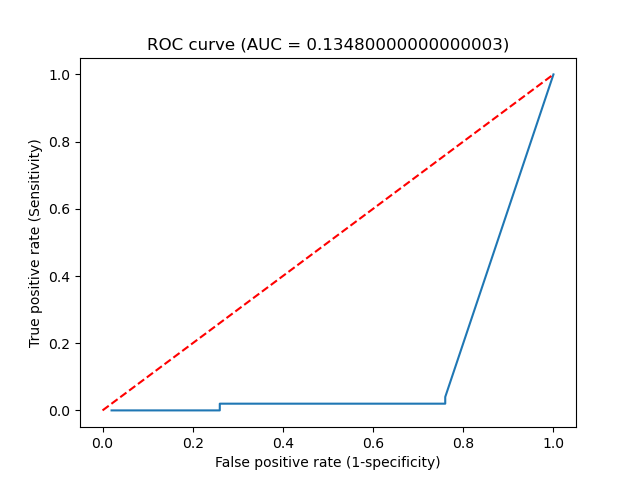
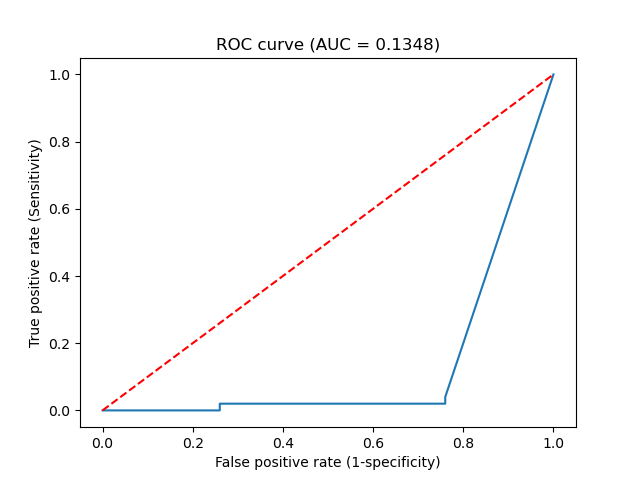
ensured starting at (0,0) and ending at (1,1)

Changed region(s): [[0.2188, 0.0625, 0.7812, 0.125]]

diff --git a/assignment3/ex2_1.py b/assignment3/ex2_1.py
@@ -73,24 +73,26 @@ def get_AUC_from_anomalies(data: list, savename = 'temp.png'):
             prev_score = score
     distinct_scores.append((prev_i, l))
 
-    sensitivities = []
-    specificities = []
+    sensitivities = [1] #ensure start at 0,0 and 1,1
+    specificities = [0] #ensure start at 0,0 and 1,1
     for i, j in distinct_scores:
         score = sorted_data[i][2]
         TP = len([w for (l, w, s) in sorted_data if s >= score and l])
         FP = len([w for (l, w, s) in sorted_data if s >= score and not l])
         TN = len([w for (l, w, s) in sorted_data if s < score and not l])
         FN = len([w for (l, w, s) in sorted_data if s < score and l])
-        TPR = TP / (TP + FN)
+        TPR = TP / (TP+FN)
         TNR = TN / (TN + FP)
 
         sensitivities.append(TPR)
         specificities.append(TNR)
 
-    # calculate AUC and make plots
+    #calculate AUC and make plots
     inverse_spec = np.ones_like(specificities) - specificities
+    sensitivities.append(0) #ensure start at 0,0 and 1,1
+    inverse_spec = np.append(inverse_spec, 0) #ensure start at 0,0 and 1,1
     auc = metrics.auc(inverse_spec, sensitivities)
-
+    
     plt.figure()
     plt.plot(inverse_spec, sensitivities)
     plt.plot([0.0,1.0], [0.0,1.0], 'r--')

diff --git a/assignment3/ex1_1.py b/assignment3/ex1_1.py
@@ -34,8 +34,8 @@ def get_AUC_from_anomalies(data: list, savename = 'temp.png'):
             prev_score = score
     distinct_scores.append((prev_i, l))
 
-    sensitivities = []
-    specificities = []
+    sensitivities = [1] #ensure start at 0,0 and 1,1
+    specificities = [0] #ensure start at 0,0 and 1,1
     for i, j in distinct_scores:
         score = sorted_data[i][2]
         TP = len([w for (l, w, s) in sorted_data if s >= score and l])
@@ -50,6 +50,8 @@ def get_AUC_from_anomalies(data: list, savename = 'temp.png'):
 
     #calculate AUC and make plots
     inverse_spec = np.ones_like(specificities) - specificities
+    sensitivities.append(0) #ensure start at 0,0 and 1,1
+    inverse_spec = np.append(inverse_spec, 0) #ensure start at 0,0 and 1,1
     auc = metrics.auc(inverse_spec, sensitivities)
 
     plt.figure()
@@ -60,6 +62,7 @@ def get_AUC_from_anomalies(data: list, savename = 'temp.png'):
     plt.title(f'ROC curve (AUC = {auc})')
     plt.savefig(savename)
     plt.close()
+
 
     return auc
 
